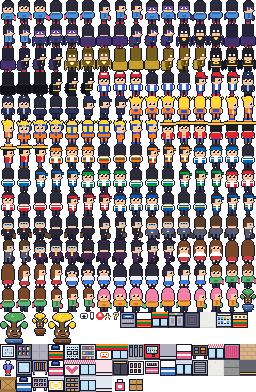
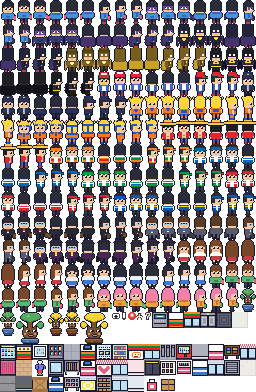
Polish: Bonsai idle animation, perv speed lines, sign out, link prompt
Bonsai's leaves bob on a two-frame cycle in both palettes, running
pervs trail speed lines, the Link Save screen has a sign-out control,
and Bonsai suggests linking the save once after the first level-up
when online features are enabled.

Claude-Session: https://claude.ai/code/session_0195Pq8RiCy83eEXiSyRsNrP

Changed region(s): [[0.0, 0.7959, 1.0, 1.0]]

diff --git a/src/i18n/ja.ts b/src/i18n/ja.ts
@@ -44,6 +44,8 @@ const ja: Strings = {
     trail_fire: ['ピクセル ファイア', 'あしあとから ひのこが あがる。'],
   } as Record<string, [string, string]>,
   link_btn: 'セーブを リンク', link_title: 'セーブを リンク', link_offline: 'この ビルドでは オンライン きのうは オフ。', link_unlinked: 'この セーブは この たんまつ だけに ある。', link_linked: 'リンクずみ。つうさん {c}にんの きろくを バックアップ ちゅう。', link_code_title: 'ひきつぎ コード', link_code_help: 'ここで コードを とって、24じかん いないに もうひとつの たんまつで にゅうりょく。つよい セーブが のこる。', link_get_code: 'コードを とる', link_claim: 'リンク', link_code_made: 'コードが できた。もうひとつの たんまつで うちこんで。', link_claimed: 'リンク かんりょう! セーブが きょうゆう された。', link_bad_code: 'その コードは みつからないか、きげんぎれ。', link_failed: 'サーバーに つながらない。あとで もういちど。',
+  link_signout: 'この たんまつで サインアウト', link_signed_out: 'サインアウト した。この たんまつの セーブは のこる。',
+  tlink: [['b', 'いいね、レベルアップ。タイトルから セーブを\nリンクすれば スマホを かえても のこるよ。']] as Page[],
   cal_btn: 'まいにち チェックイン', cal_title: 'まいにち チェックイン', cal_sub: 'れんぞく {n}にち。1にち あけると リセット。', cal_day: '{n}にちめ', cal_pick: 'すきな コスチューム', cal_claim: 'きょうの ぶんを うけとる', cal_got: 'うけとった! また あした。', cal_choose: '7にちめ: コスチュームを えらんで', cal_picked: '{c} を てにいれた!',
   my_card: 'マイカード', player_card: 'プレイヤー カード', you: 'あなた', card_aura: 'オーラ', card_trail: 'トレイル', card_stats: 'Lv{l}  ·  つうさん {c}にん  ·  さいこう れんぞく {s}  ·  マップ {m}', card_run: 'この きろく: 90びょうで {c}にん', card_mine: 'ランキングの なまえを おすと その ひとの カードが みえる。',
   wd_sets: 'セット (かきん)', sets_hint: 'ちょくせつ かいきん。ジェムも ガチャも なし。セーブを リンクすれば かいもどせる。', sets_offline: 'この ビルドでは こうにゅう できない。', sets_opening: 'けっさいを ひらく…', sets_unavailable: 'いまは こうにゅう できない。', owned_set: 'もっている', restore: 'こうにゅうを ふくげん', restored: '{n}この セットを ふくげん した。',

diff --git a/src/i18n/en.ts b/src/i18n/en.ts
@@ -44,6 +44,8 @@ const en = {
     trail_fire: ['Pixel Fire', 'Embers rise from your footsteps.'],
   } as Record<string, [string, string]>,
   link_btn: 'LINK SAVE', link_title: 'Link your save', link_offline: 'Online features are off in this build.', link_unlinked: 'This save lives on this device only.', link_linked: 'Linked. {c} career catches are backed up.', link_code_title: 'Transfer code', link_code_help: 'Get a code here, then enter it on your other device within 24 hours. The stronger save wins.', link_get_code: 'GET A CODE', link_claim: 'LINK', link_code_made: 'Code ready. Type it on the other device.', link_claimed: 'Linked! Your save is now shared.', link_bad_code: 'That code was not found or has expired.', link_failed: 'Could not reach the server. Try again later.',
+  link_signout: 'Sign out on this device', link_signed_out: 'Signed out. This device keeps its own save.',
+  tlink: [['b', "Nice, you're leveling. Link your save\nfrom the title so a new phone keeps it."]] as Page[],
   cal_btn: 'DAILY CHECK-IN', cal_title: 'Daily check-in', cal_sub: 'Streak: {n} day(s) in a row. Miss a day and it resets.', cal_day: 'Day {n}', cal_pick: 'Any cosmetic you choose', cal_claim: 'CLAIM TODAY', cal_got: 'Claimed! See you tomorrow.', cal_choose: 'Day 7: choose your cosmetic', cal_picked: '{c} is yours!',
   my_card: 'MY CARD', player_card: 'Player card', you: 'You', card_aura: 'Aura', card_trail: 'Trail', card_stats: 'Lv{l}  ·  {c} career catches  ·  best streak {s}  ·  {m} maps', card_run: 'This run: {c} catches in 90s', card_mine: 'Tap a name on the ranking to see their card.',
   wd_sets: 'Sets (real money)', sets_hint: 'Direct unlocks, no gems, no loot. Purchases restore by linking your save.', sets_offline: 'Purchases are not available in this build.', sets_opening: 'Opening checkout…', sets_unavailable: 'Purchase unavailable right now.', owned_set: 'OWNED', restore: 'Restore purchases', restored: 'Restored {n} set(s).',

diff --git a/src/ui/draw.ts b/src/ui/draw.ts
@@ -56,6 +56,11 @@ export function drawWorld(): void {
     if (e.kind === 'player' && G.hurtT > 0 && Math.floor(G.time / 60) % 2) ctx.globalAlpha = 0.4;
     spr(frameName(e), e.px, e.py - 8 + yo, e.flip); ctx.globalAlpha = 1;
     if (e.kind === 'player' && G.koT > 0) otext('KO', e.px + 8, e.py - 24, '#ff5a5a', 'center');
+    if (e.kind === 'perv' && (e.chasing || e.state === 'finish') && e.moving) {
+      // speed lines trailing the runner
+      const back = e.flip ? 1 : -1; const sx = e.flip ? e.px + 16 : e.px - 1; ctx.fillStyle = 'rgba(26,26,46,0.55)';
+      for (let i = 0; i < 3; i++) { const len = 3 + ((Math.floor(G.time / 60) + i) % 3) * 2; ctx.fillRect(sx + (back > 0 ? 0 : -len), e.py + 2 + i * 4, len, 1); }
+    }
     if (e.stunT > 0) { const a = G.time / 120; for (let i = 0; i < 3; i++) { const ang = a + i * 2.1; otext('★', e.px + 8 + Math.cos(ang) * 7, e.py - 22 + Math.sin(ang) * 2, '#ffe066', 'center'); } }
     if (e.kind !== 'perv') continue;
     const v = iconVisible(e);
@@ -70,7 +75,7 @@ export function drawWorld(): void {
     } else if (ic && v === 'hint') spr('icon_hint', e.px + 4, e.py - 19);
   }
   for (const b of G.balls) { ctx.fillStyle = '#1a1a2e'; ctx.fillRect(b.x - 1, b.y - 1, 10, 10); ctx.fillStyle = '#e63c3c'; ctx.fillRect(b.x, b.y, 8, 4); ctx.fillStyle = '#fff'; ctx.fillRect(b.x, b.y + 4, 8, 4); ctx.fillStyle = '#1a1a2e'; ctx.fillRect(b.x, b.y + 3, 8, 1); ctx.fillRect(b.x + 3, b.y + 2, 2, 3); }
-  const B = G.bonsai; spr(bonsaiSprite() + '_0', B.px, B.py - 8 + Math.round(Math.sin(G.time / 250) * 1.5) - 4, B.flip);
+  const B = G.bonsai; spr(bonsaiSprite() + (Math.floor(G.time / 320) % 2 ? '_1' : '_0'), B.px, B.py - 8 + Math.round(Math.sin(G.time / 250) * 1.5) - 4, B.flip);
   ctx.restore();
 }
 

diff --git a/src/ui/link.ts b/src/ui/link.ts
@@ -18,6 +18,7 @@ function refreshStatus(): void {
   if (!api.enabled) { $('link-status').textContent = L.link_offline; $('b-code-new').setAttribute('disabled', ''); $('b-code-claim').setAttribute('disabled', ''); return; }
   $('b-code-new').removeAttribute('disabled'); $('b-code-claim').removeAttribute('disabled');
   $('link-status').textContent = linked() ? fmt(L.link_linked, { c: G.totalCatches }) : L.link_unlinked;
+  $('b-signout').hidden = !linked(); $('b-signout').textContent = L.link_signout;
 }
 export function wireLink(): void {
   $('b-link-close').onclick = () => { $('link').hidden = true; renderProfileLine(); };
@@ -25,5 +26,5 @@ export function wireLink(): void {
   $('b-code-claim').onclick = async () => { const v = ($('code-in') as HTMLInputElement).value; if (!v.trim()) return; $('link-msg').textContent = '…'; const ok = await claimCode(v); $('link-msg').textContent = ok ? L.link_claimed : L.link_bad_code; if (ok) sfx('catch'); else sfx('notyet'); refreshStatus(); };
   $('b-apple').onclick = async () => { const ok = await nativeSignIn('apple'); $('link-msg').textContent = ok ? L.link_claimed : L.link_failed; refreshStatus(); };
   $('b-google').onclick = async () => { const ok = await nativeSignIn('google'); $('link-msg').textContent = ok ? L.link_claimed : L.link_failed; refreshStatus(); };
-  void signOut; // reserved for a future "sign out" control
+  $('b-signout').onclick = async () => { await signOut(); $('link-msg').textContent = L.link_signed_out; refreshStatus(); };
 }

diff --git a/src/ui/overlays.ts b/src/ui/overlays.ts
@@ -5,7 +5,7 @@ import { clearPresses } from '../core/input';
 import { buy, leaderboard, CATALOG, COSMETICS, buyCosmetic, type ScoreRow } from '../game/economy';
 import { wear, wornOf, heroSprite } from '../game/costume';
 import { allSets, buySet, hasSet, restorePurchases } from '../game/purchases';
-import { api } from '../game/api';
+import { api, sessionToken } from '../game/api';
 import { unlockedMaps as unlocked } from '../game/maps';
 import { openCard } from './card';
 import type { Card } from '../game/economy';
@@ -65,6 +65,7 @@ export function choosePick(i: number): void {
   (['speed', 'detect', 'strength'] as const).forEach((k, j) => { if (j === i) G.stats[k]++; });
   $('pick').hidden = true; G.scene = 'play'; clearPresses(); saveProfile();
   if (G.tutorial && !G.tut.done && G.tut.step === 9) tutBox('t9', finishTutorial);
+  else if (api.enabled && !sessionToken()) { try { if (!localStorage.getItem('taiho_tlink')) { localStorage.setItem('taiho_tlink', '1'); showBox(L.tlink); } } catch { /* ignore */ } }
   checkCostume();
 }
 

diff --git a/index.html b/index.html
@@ -94,7 +94,7 @@
         <p id="link-code" class="code"></p>
         <div class="row"><input id="code-in" maxlength="9" placeholder="ABCD-EFGH" autocomplete="off" autocapitalize="characters"><button id="b-code-claim">LINK</button></div>
         <p id="link-msg" class="small"></p>
-        <div class="menu"><button id="b-link-close">CLOSE</button></div>
+        <div class="menu"><button id="b-signout" class="link" hidden>Sign out on this device</button><button id="b-link-close">CLOSE</button></div>
       </div>
     </div>
     <div id="card" class="overlay" hidden>

diff --git a/tools/build_atlas.py b/tools/build_atlas.py
@@ -17,7 +17,16 @@ chars = runpy.run_path(os.path.join(TOOLS, 'characters.py'), run_name='build')['
 def load(p): return Image.open(p).convert('RGBA')
 items = []
 for key, im in chars.items(): items.append((key, im))
-items.append(('bonsai_0', load(os.path.join(OUT, 'bonsai.png'))))
+def lift_leaves(im):
+    im2 = Image.new('RGBA', im.size, (0, 0, 0, 0)); src = im.load(); dst = im2.load()
+    for y in range(im.height):
+        for x in range(im.width):
+            c = src[x, y]
+            if not c[3]: continue
+            dst[x, y - 1 if (y < 11 and y > 0) else y] = c
+    return im2
+bonsai = load(os.path.join(OUT, 'bonsai.png'))
+items.append(('bonsai_0', bonsai)); items.append(('bonsai_1', lift_leaves(bonsai)))
 items.append(('bonsai_portrait', load(os.path.join(OUT, 'bonsai_portrait.png'))))
 # Bonsai in yellow and brown while the trainer costume is worn
 def electric(im):
@@ -28,7 +37,7 @@ def electric(im):
             c = px[x, y]
             if c[3] and c[:3] in swap: px[x, y] = swap[c[:3]] + (255,)
     return im
-items.append(('bonsai_pika_0', electric(load(os.path.join(OUT, 'bonsai.png')))))
+items.append(('bonsai_pika_0', electric(bonsai))); items.append(('bonsai_pika_1', electric(lift_leaves(bonsai))))
 items.append(('bonsai_pika_portrait', electric(load(os.path.join(OUT, 'bonsai_portrait.png')))))
 for n in ('scoping', 'setting_up', 'in_progress', 'finishing', 'hint'):
     items.append(('icon_' + n, load(os.path.join(OUT, n + '.png'))))
